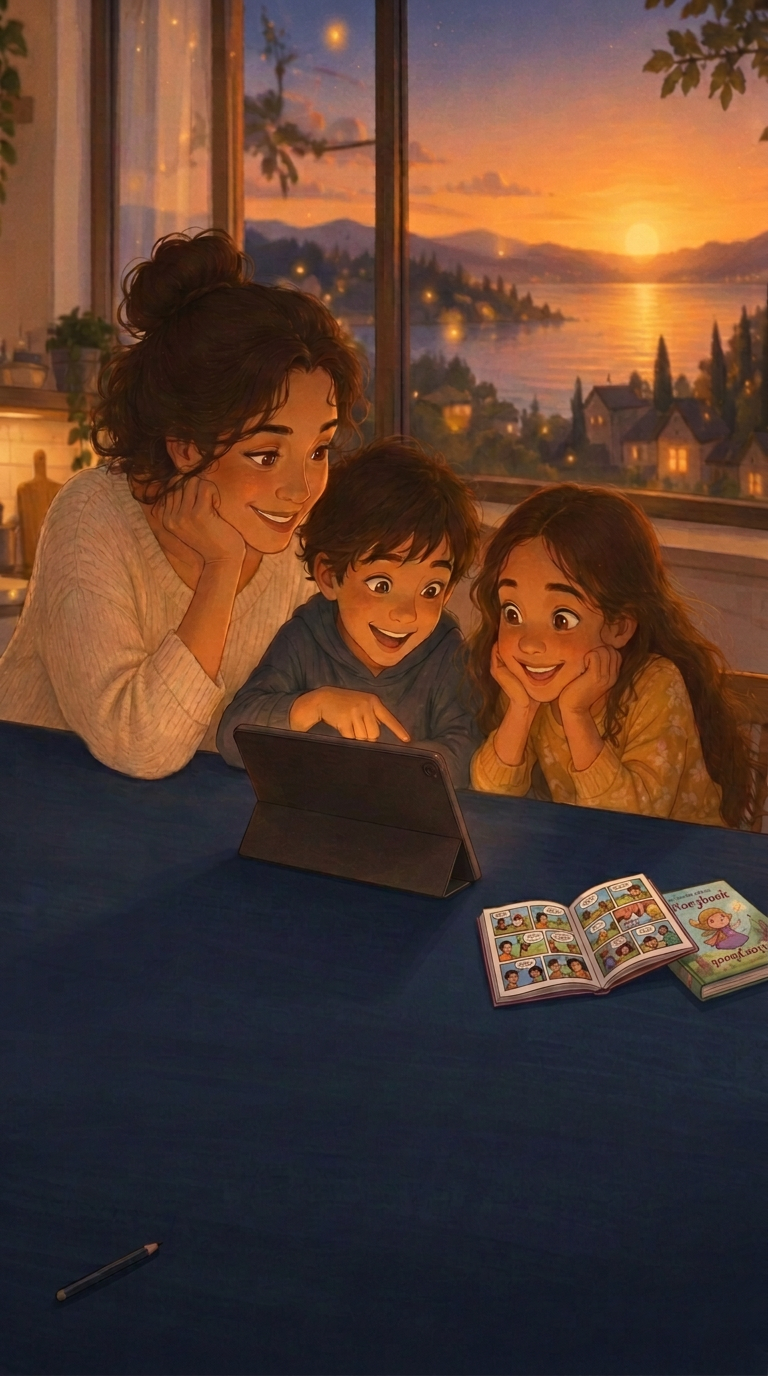
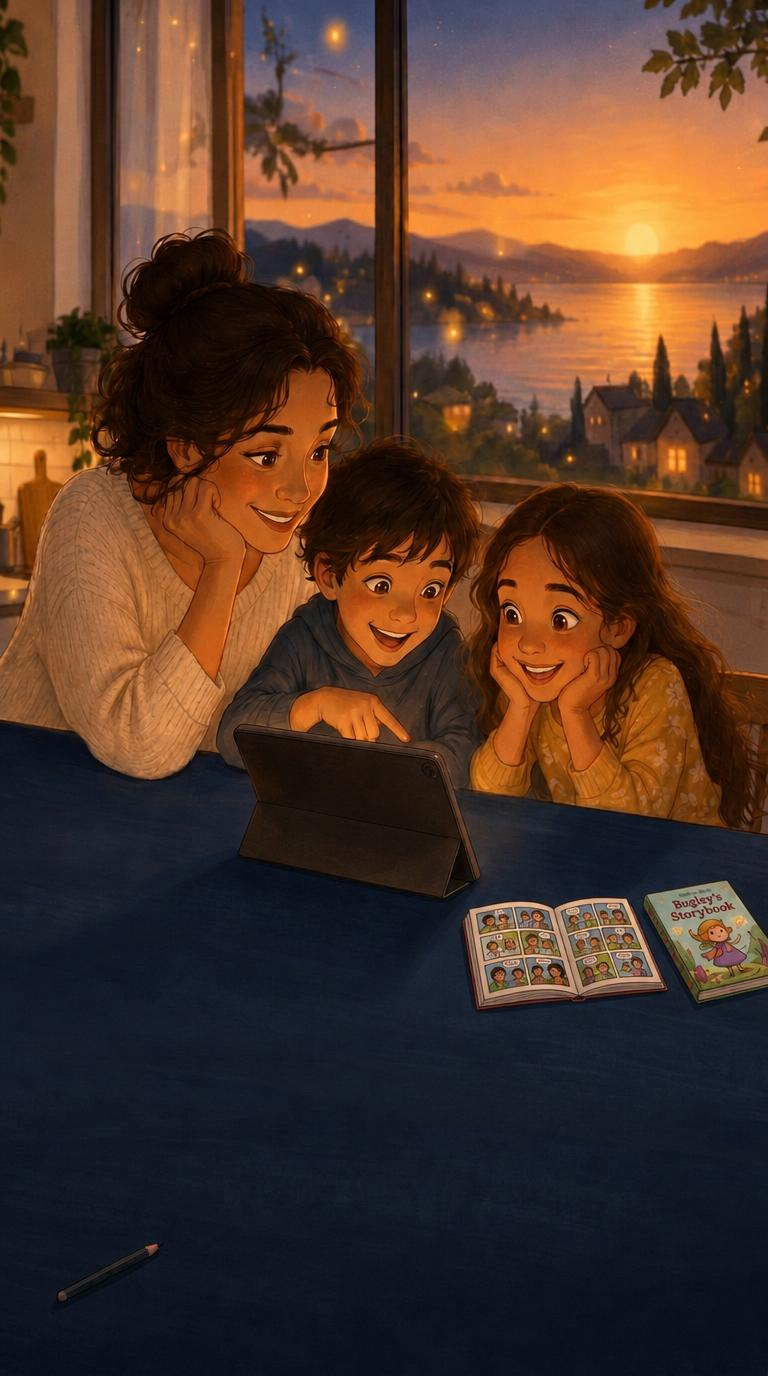
Changes

diff --git a/src/styles.css b/src/styles.css
@@ -239,9 +239,9 @@
 }
 .home-hero-window-bugley {
   position: absolute;
-  left: 49%;
+  left: 67%;
   top: 18%;
-  width: 12%;
+  width: 5%;
   aspect-ratio: 1;
   transform: translate(-50%, -50%);
 }
@@ -257,7 +257,7 @@
 }
 @media (min-width: 600px) {
   .home-hero-art { width: max(100cqw, 149.057cqh); height: max(100cqh, 67.089cqw); }
-  .home-hero-window-bugley { left: 78%; top: 19%; width: 7%; }
+  .home-hero-window-bugley { left: 87%; top: 19%; width: 3%; }
   .home-hero-copy { justify-content: center; padding-block: 24px; }
   .home-hero-words { width: 40%; max-width: 448px; gap: 18px; }
   .home-hero-actions { flex-direction: column; align-items: flex-start; }
